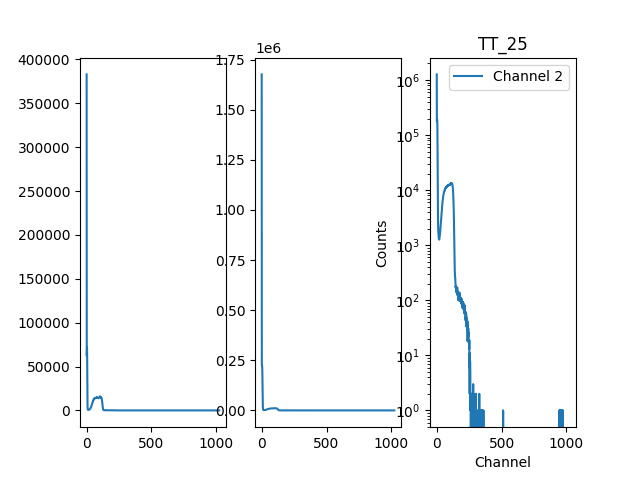
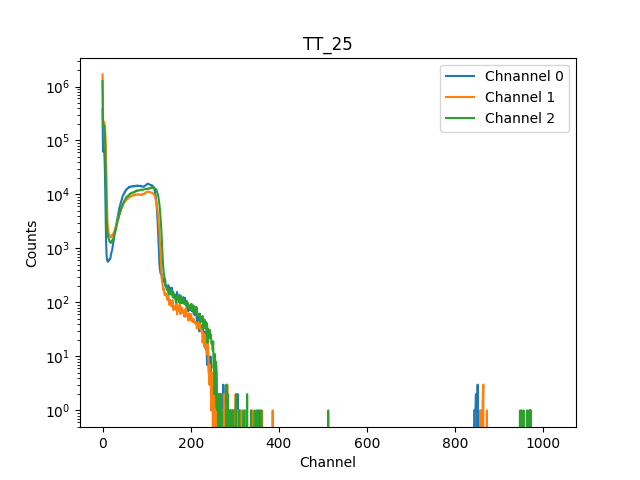
small changes

diff --git a/calib.py b/calib.py
@@ -43,8 +43,8 @@ def gaussian(x, a1, x01, sigma1, a2, x02, sigma2, a3, x03, sigma3, c):
     return a1*np.exp(-(x-x01)**2/(2*sigma1**2)) + a2*np.exp(-(x-x02)**2/(2*sigma2**2)) + a3*np.exp(-(x-x03)**2/(2*sigma3**2)) + c
 
 # Channel 0
-x = np.array(range(545, 650))
-y = TT21_Chn0[545:650]
+x = np.array(range(500, 700))
+y = TT21_Chn0[500:700]
 # curve fit
 popt0, pcov0 = curve_fit(gaussian, x, y, p0=[90, 556, 5, 70, 593, 5, 70, 627, 5, 0])
 
@@ -62,8 +62,8 @@ plt.savefig('TT_21_Chn0.png')
 plt.show()
 
 # Channel 1
-x = np.array(range(545, 700))
-y = TT21_Chn1[545:700]
+x = np.array(range(500, 700))
+y = TT21_Chn1[500:700]
 # curve fit
 popt1, pcov1 = curve_fit(gaussian, x, y, p0=[90, 565, 5, 70, 605, 5, 70, 640, 5, 0])
 
@@ -81,8 +81,8 @@ plt.savefig('TT_21_Chn1.png')
 plt.show()
 
 # Channel 2
-x = np.array(range(545, 700))
-y = TT21_Chn2[545:700]
+x = np.array(range(500, 700))
+y = TT21_Chn2[500:700]
 # curve fit
 popt2, pcov2 = curve_fit(gaussian, x, y, p0=[90, 565, 5, 70, 605, 5, 70, 640, 5, 0])
 
@@ -170,7 +170,7 @@ plt.title('Calibration channel 2')
 plt.legend()
 plt.xlabel('Channel')
 plt.ylabel('Energy (keV)')
-plt.text(565, 5600, f'E = ({m2:.2f} ± {errors2[0]:.2f}* Chn + {c2:.2f}) ± {errors2[1]:.2f}', fontsize=10)
+plt.text(565, 5600, f'E = ({m2:.2f} ± {errors2[0]:.2f})* Chn + {c2:.2f} ± {errors2[1]:.2f}', fontsize=10)
 plt.savefig('TT_21_Chn2_calib.png')
 plt.show()
 

diff --git a/analise.py b/analise.py
@@ -145,7 +145,6 @@ plt.show()
 
 # TT_25
 plt.figure()
-plt.subplot(1, 3, 1)
 plt.plot(TT25_Chn0, label='Chnannel 0')
 plt.plot(TT25_Chn1, label='Channel 1')
 plt.plot(TT25_Chn2, label='Channel 2')
